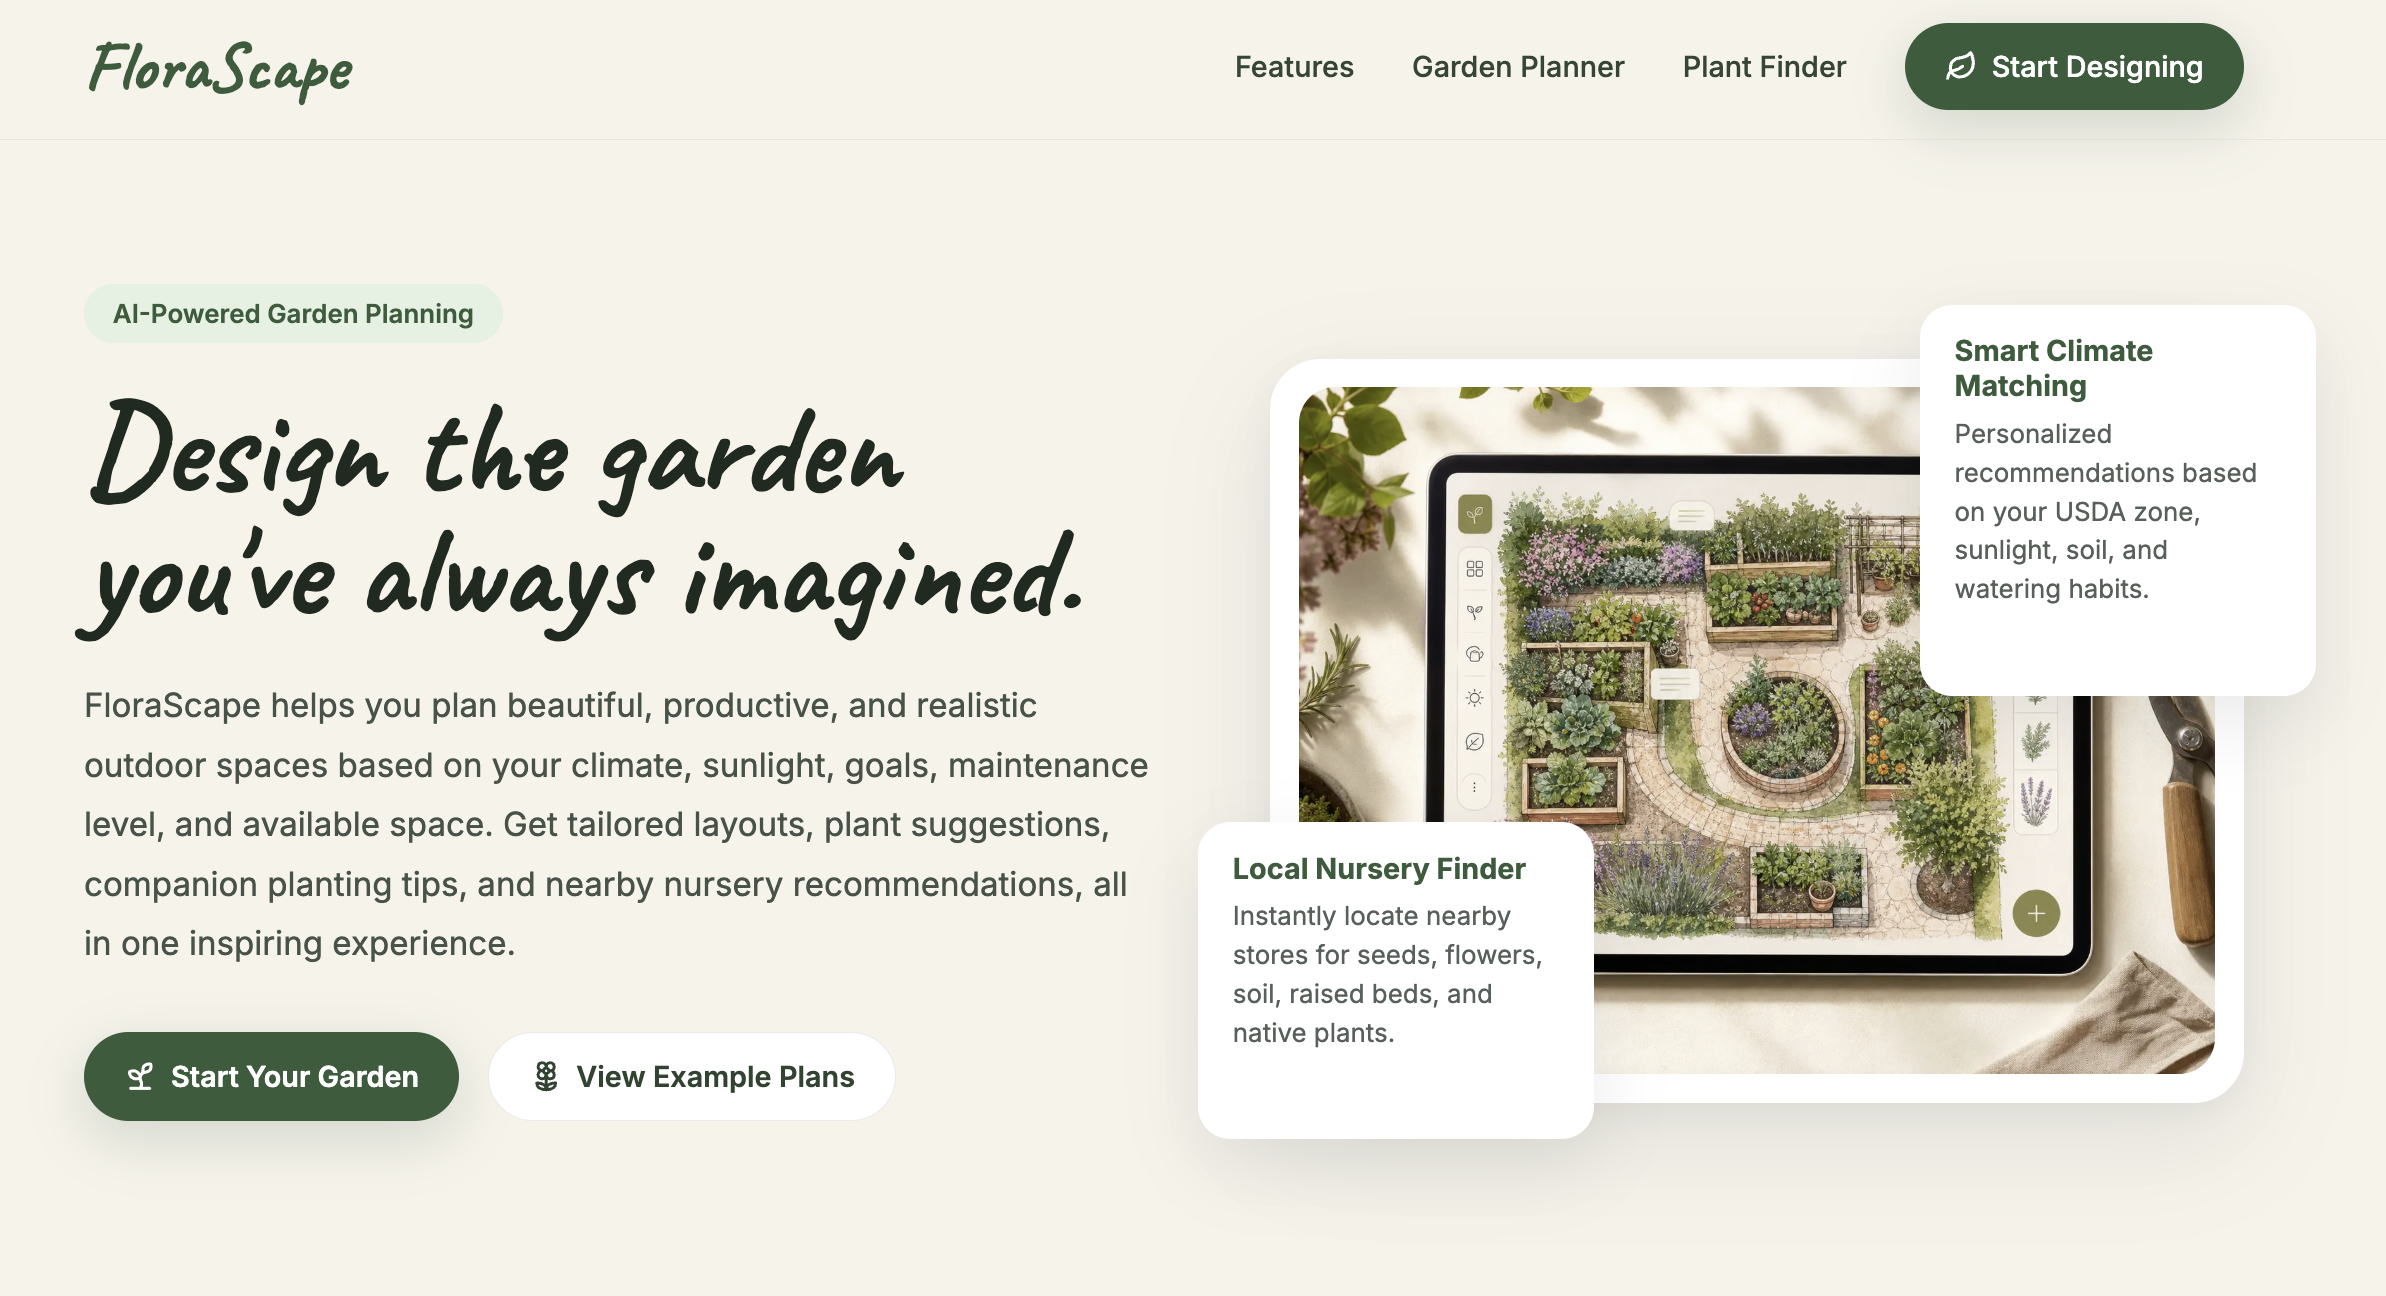
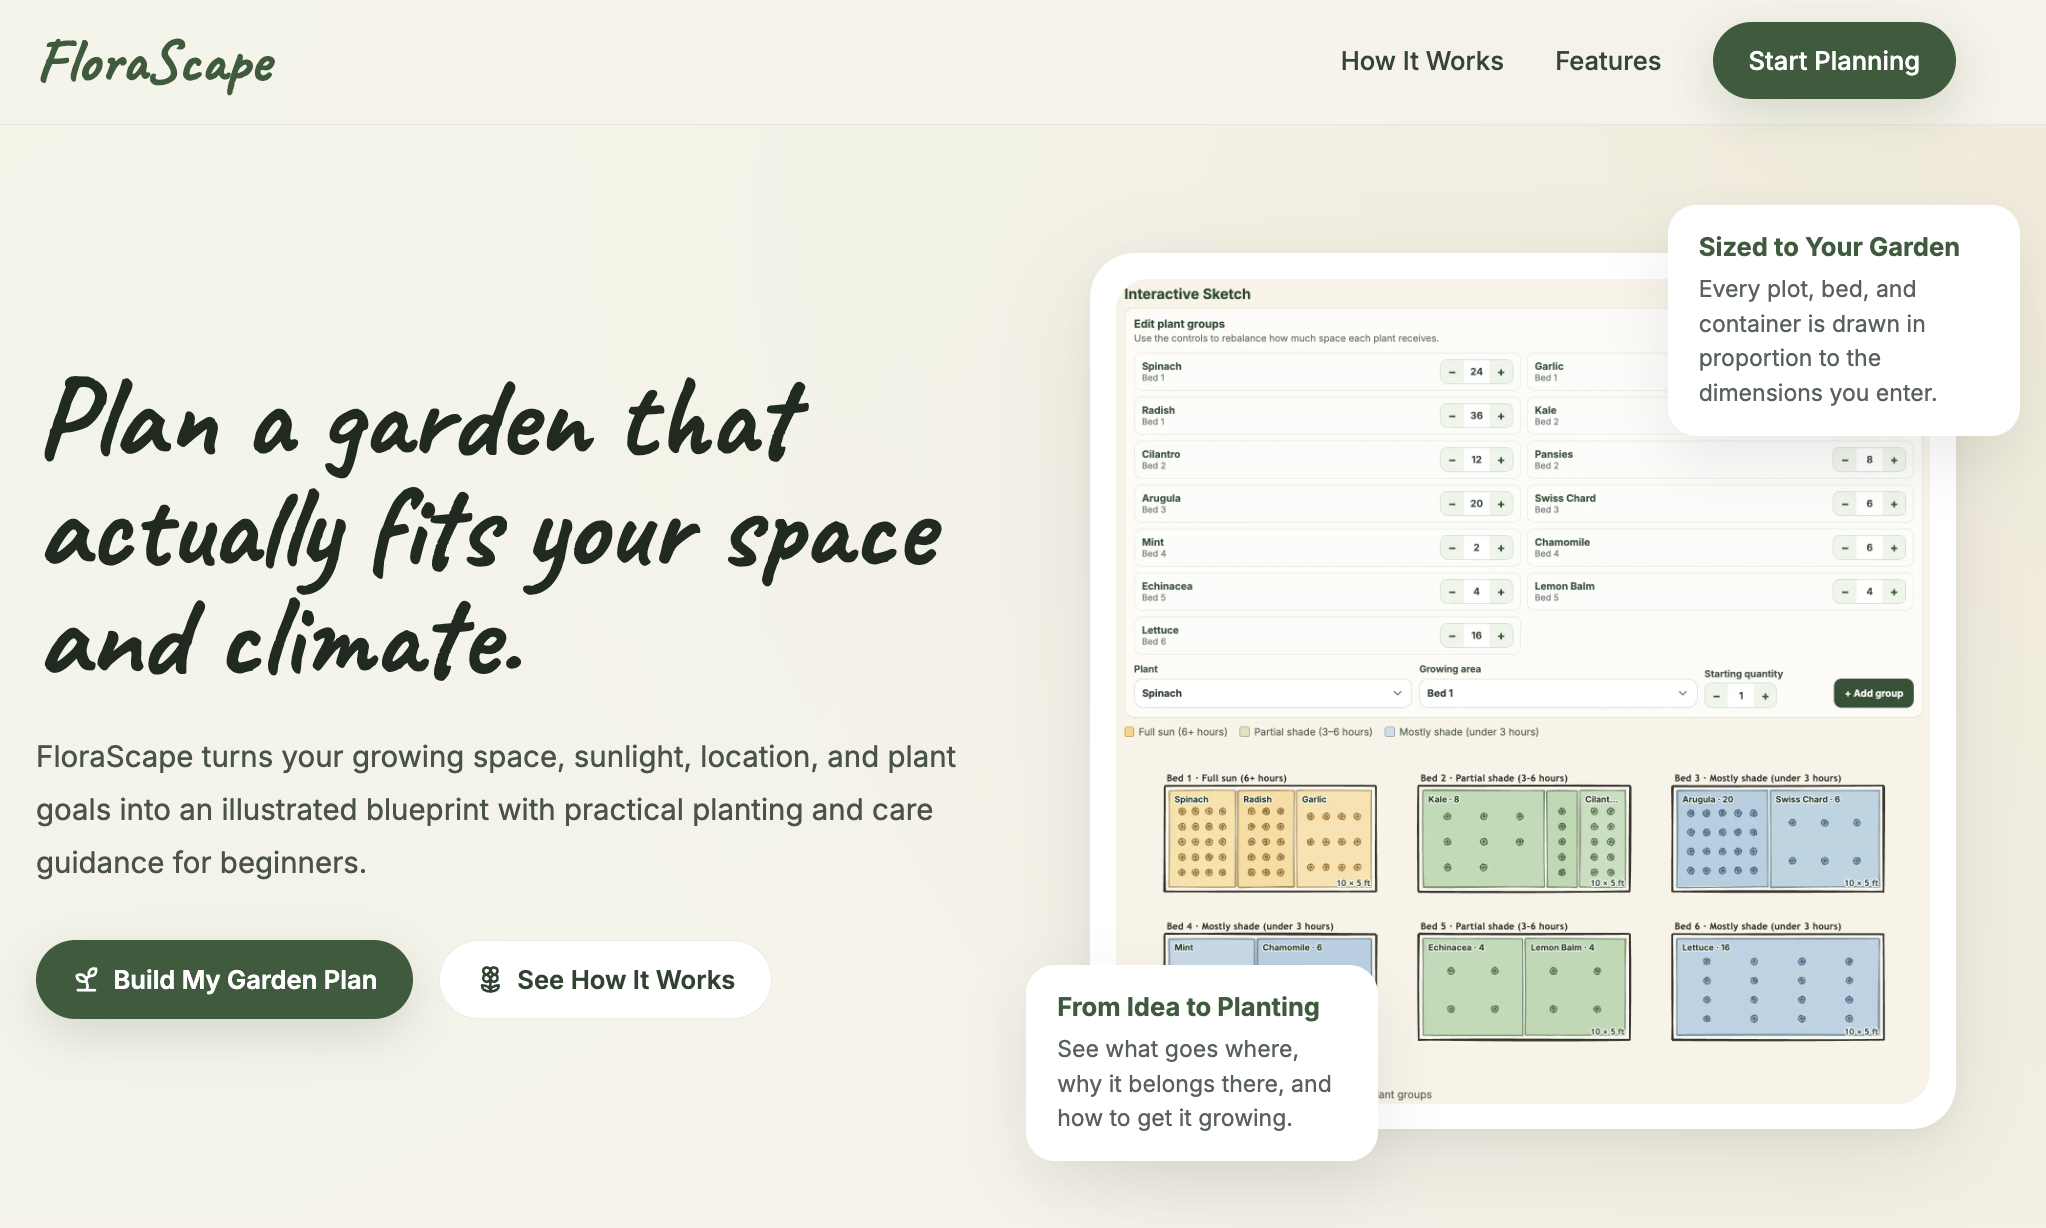
updates

diff --git a/app/data/githubContributions2026.ts b/app/data/githubContributions2026.ts
@@ -1,94 +1,102 @@
 export const contributions2026 = [
-  { date: '2026-01-02', level: 1, count: 2 },
-  { date: '2026-01-05', level: 1, count: 2 },
-  { date: '2026-01-06', level: 2, count: 8 },
-  { date: '2026-01-07', level: 2, count: 6 },
-  { date: '2026-01-08', level: 2, count: 6 },
+  { date: '2026-01-05', level: 1, count: 1 },
+  { date: '2026-01-06', level: 2, count: 5 },
+  { date: '2026-01-07', level: 2, count: 3 },
+  { date: '2026-01-08', level: 2, count: 3 },
   { date: '2026-01-09', level: 1, count: 1 },
-  { date: '2026-01-12', level: 1, count: 3 },
-  { date: '2026-01-13', level: 2, count: 11 },
-  { date: '2026-01-14', level: 2, count: 8 },
-  { date: '2026-01-15', level: 1, count: 4 },
+  { date: '2026-01-12', level: 2, count: 3 },
+  { date: '2026-01-13', level: 2, count: 4 },
+  { date: '2026-01-14', level: 2, count: 4 },
+  { date: '2026-01-15', level: 2, count: 3 },
   { date: '2026-01-19', level: 1, count: 2 },
-  { date: '2026-01-20', level: 2, count: 9 },
-  { date: '2026-01-21', level: 2, count: 10 },
-  { date: '2026-01-22', level: 2, count: 10 },
-  { date: '2026-01-23', level: 2, count: 7 },
-  { date: '2026-01-26', level: 2, count: 7 },
-  { date: '2026-01-27', level: 1, count: 5 },
-  { date: '2026-01-28', level: 3, count: 15 },
-  { date: '2026-01-29', level: 2, count: 9 },
-  { date: '2026-01-30', level: 2, count: 7 },
+  { date: '2026-01-20', level: 1, count: 2 },
+  { date: '2026-01-21', level: 4, count: 10 },
+  { date: '2026-01-22', level: 3, count: 7 },
+  { date: '2026-01-23', level: 3, count: 7 },
+  { date: '2026-01-26', level: 2, count: 5 },
+  { date: '2026-01-27', level: 2, count: 3 },
+  { date: '2026-01-28', level: 4, count: 9 },
+  { date: '2026-01-29', level: 1, count: 2 },
+  { date: '2026-01-30', level: 2, count: 5 },
   { date: '2026-02-01', level: 1, count: 2 },
-  { date: '2026-02-02', level: 1, count: 3 },
-  { date: '2026-02-03', level: 1, count: 4 },
-  { date: '2026-02-04', level: 1, count: 3 },
-  { date: '2026-02-05', level: 2, count: 7 },
-  { date: '2026-02-06', level: 2, count: 9 },
-  { date: '2026-02-09', level: 2, count: 10 },
-  { date: '2026-02-10', level: 4, count: 31 },
-  { date: '2026-02-11', level: 3, count: 12 },
-  { date: '2026-02-17', level: 2, count: 11 },
-  { date: '2026-02-18', level: 2, count: 10 },
-  { date: '2026-02-20', level: 2, count: 10 },
-  { date: '2026-02-23', level: 3, count: 13 },
-  { date: '2026-02-24', level: 3, count: 12 },
-  { date: '2026-02-25', level: 2, count: 11 },
-  { date: '2026-02-26', level: 2, count: 9 },
-  { date: '2026-02-27', level: 4, count: 22 },
-  { date: '2026-03-02', level: 1, count: 3 },
-  { date: '2026-03-03', level: 1, count: 5 },
-  { date: '2026-03-04', level: 2, count: 8 },
-  { date: '2026-03-05', level: 4, count: 22 },
-  { date: '2026-03-06', level: 1, count: 5 },
-  { date: '2026-03-09', level: 4, count: 20 },
-  { date: '2026-03-10', level: 1, count: 5 },
-  { date: '2026-03-11', level: 1, count: 3 },
+  { date: '2026-02-02', level: 1, count: 2 },
+  { date: '2026-02-03', level: 2, count: 3 },
+  { date: '2026-02-04', level: 1, count: 2 },
+  { date: '2026-02-05', level: 2, count: 3 },
+  { date: '2026-02-06', level: 3, count: 6 },
+  { date: '2026-02-09', level: 2, count: 5 },
+  { date: '2026-02-10', level: 4, count: 13 },
+  { date: '2026-02-11', level: 1, count: 2 },
+  { date: '2026-02-17', level: 4, count: 10 },
+  { date: '2026-02-18', level: 2, count: 5 },
+  { date: '2026-02-20', level: 4, count: 9 },
+  { date: '2026-02-23', level: 2, count: 5 },
+  { date: '2026-02-24', level: 3, count: 7 },
+  { date: '2026-02-25', level: 3, count: 6 },
+  { date: '2026-02-26', level: 2, count: 4 },
+  { date: '2026-02-27', level: 4, count: 14 },
+  { date: '2026-03-02', level: 2, count: 3 },
+  { date: '2026-03-03', level: 2, count: 4 },
+  { date: '2026-03-04', level: 3, count: 7 },
+  { date: '2026-03-05', level: 4, count: 14 },
+  { date: '2026-03-06', level: 2, count: 4 },
+  { date: '2026-03-09', level: 4, count: 18 },
+  { date: '2026-03-10', level: 2, count: 5 },
+  { date: '2026-03-11', level: 2, count: 3 },
   { date: '2026-03-12', level: 1, count: 1 },
-  { date: '2026-03-13', level: 1, count: 3 },
-  { date: '2026-03-16', level: 1, count: 3 },
-  { date: '2026-03-17', level: 2, count: 8 },
-  { date: '2026-03-18', level: 2, count: 6 },
-  { date: '2026-03-19', level: 2, count: 10 },
+  { date: '2026-03-13', level: 1, count: 2 },
+  { date: '2026-03-16', level: 1, count: 2 },
+  { date: '2026-03-17', level: 2, count: 3 },
+  { date: '2026-03-18', level: 1, count: 2 },
+  { date: '2026-03-19', level: 2, count: 4 },
   { date: '2026-03-20', level: 1, count: 1 },
-  { date: '2026-03-23', level: 1, count: 5 },
-  { date: '2026-03-24', level: 2, count: 11 },
-  { date: '2026-03-25', level: 1, count: 5 },
-  { date: '2026-03-26', level: 3, count: 15 },
+  { date: '2026-03-23', level: 1, count: 2 },
+  { date: '2026-03-24', level: 3, count: 6 },
+  { date: '2026-03-25', level: 2, count: 3 },
+  { date: '2026-03-26', level: 1, count: 2 },
   { date: '2026-03-27', level: 1, count: 1 },
   { date: '2026-03-30', level: 1, count: 2 },
   { date: '2026-03-31', level: 1, count: 1 },
   { date: '2026-04-01', level: 1, count: 2 },
   { date: '2026-04-02', level: 1, count: 1 },
-  { date: '2026-04-06', level: 2, count: 7 },
-  { date: '2026-04-07', level: 2, count: 6 },
-  { date: '2026-04-08', level: 2, count: 8 },
+  { date: '2026-04-06', level: 2, count: 5 },
+  { date: '2026-04-07', level: 1, count: 2 },
+  { date: '2026-04-08', level: 2, count: 4 },
   { date: '2026-04-09', level: 1, count: 2 },
-  { date: '2026-04-13', level: 2, count: 9 },
-  { date: '2026-04-14', level: 1, count: 5 },
-  { date: '2026-04-16', level: 1, count: 1 },
-  { date: '2026-04-27', level: 3, count: 14 },
-  { date: '2026-04-28', level: 3, count: 14 },
-  { date: '2026-04-29', level: 1, count: 4 },
-  { date: '2026-04-30', level: 1, count: 4 },
-  { date: '2026-05-01', level: 1, count: 5 },
-  { date: '2026-05-04', level: 1, count: 4 },
-  { date: '2026-05-05', level: 4, count: 18 },
-  { date: '2026-05-07', level: 2, count: 6 },
-  { date: '2026-05-08', level: 2, count: 6 },
-  { date: '2026-05-11', level: 2, count: 6 },
+  { date: '2026-04-13', level: 2, count: 3 },
+  { date: '2026-04-14', level: 2, count: 3 },
+  { date: '2026-04-17', level: 1, count: 1 },
+  { date: '2026-04-27', level: 2, count: 4 },
+  { date: '2026-04-28', level: 1, count: 2 },
+  { date: '2026-04-29', level: 1, count: 1 },
+  { date: '2026-04-30', level: 1, count: 2 },
+  { date: '2026-05-01', level: 2, count: 3 },
+  { date: '2026-05-04', level: 2, count: 3 },
+  { date: '2026-05-05', level: 4, count: 8 },
+  { date: '2026-05-07', level: 2, count: 4 },
+  { date: '2026-05-08', level: 1, count: 2 },
+  { date: '2026-05-11', level: 1, count: 1 },
   { date: '2026-05-12', level: 1, count: 1 },
   { date: '2026-05-13', level: 1, count: 2 },
-  { date: '2026-05-14', level: 1, count: 4 },
+  { date: '2026-05-14', level: 1, count: 1 },
   { date: '2026-05-21', level: 1, count: 1 },
-  { date: '2026-05-22', level: 1, count: 3 },
-  { date: '2026-05-25', level: 1, count: 5 },
-  { date: '2026-05-26', level: 1, count: 1 },
-  { date: '2026-05-27', level: 2, count: 6 },
+  { date: '2026-05-22', level: 2, count: 3 },
+  { date: '2026-05-25', level: 2, count: 5 },
+  { date: '2026-05-26', level: 2, count: 3 },
+  { date: '2026-05-27', level: 3, count: 6 },
   { date: '2026-05-29', level: 1, count: 1 },
   { date: '2026-05-30', level: 1, count: 2 },
-  { date: '2026-06-01', level: 1, count: 1 },
-  { date: '2026-06-25', level: 2, count: 6 },
+  { date: '2026-06-01', level: 1, count: 2 },
+  { date: '2026-06-25', level: 3, count: 6 },
+  { date: '2026-08-11', level: 3, count: 7 },
+  { date: '2026-08-12', level: 4, count: 9 },
+  { date: '2026-08-13', level: 1, count: 2 },
+  { date: '2026-08-18', level: 2, count: 4 },
+  { date: '2026-08-19', level: 2, count: 5 },
+  { date: '2026-08-21', level: 4, count: 9 },
+  { date: '2026-08-23', level: 4, count: 10 },
+  { date: '2026-08-24', level: 4, count: 10 },
+  { date: '2026-08-25', level: 4, count: 9 },
 ];
 
-export const totalContributions2026 = 609;
+export const totalContributions2026 = 418;

diff --git a/app/data/githubContributions2025.ts b/app/data/githubContributions2025.ts
@@ -132,74 +132,71 @@ export const contributions2025 = [
   { date: '2025-08-20', level: 3, count: 12 },
   { date: '2025-08-21', level: 2, count: 9 },
   { date: '2025-08-22', level: 2, count: 8 },
-  { date: '2025-08-25', level: 4, count: 18 },
-  { date: '2025-08-26', level: 3, count: 12 },
-  { date: '2025-08-27', level: 2, count: 9 },
-  { date: '2025-08-28', level: 2, count: 6 },
-  { date: '2025-09-02', level: 1, count: 4 },
+  { date: '2025-08-25', level: 2, count: 5 },
+  { date: '2025-08-26', level: 2, count: 5 },
+  { date: '2025-08-27', level: 2, count: 3 },
+  { date: '2025-08-28', level: 1, count: 2 },
+  { date: '2025-09-02', level: 1, count: 1 },
   { date: '2025-09-03', level: 1, count: 1 },
-  { date: '2025-09-04', level: 3, count: 11 },
-  { date: '2025-09-08', level: 1, count: 3 },
+  { date: '2025-09-04', level: 2, count: 5 },
+  { date: '2025-09-08', level: 2, count: 3 },
   { date: '2025-09-09', level: 1, count: 1 },
-  { date: '2025-09-11', level: 1, count: 4 },
-  { date: '2025-09-16', level: 3, count: 12 },
-  { date: '2025-09-17', level: 2, count: 6 },
-  { date: '2025-09-18', level: 1, count: 4 },
-  { date: '2025-09-19', level: 2, count: 8 },
-  { date: '2025-09-22', level: 2, count: 7 },
-  { date: '2025-09-23', level: 1, count: 4 },
-  { date: '2025-09-24', level: 2, count: 8 },
-  { date: '2025-09-25', level: 3, count: 11 },
-  { date: '2025-09-26', level: 1, count: 4 },
-  { date: '2025-09-29', level: 3, count: 11 },
-  { date: '2025-09-30', level: 2, count: 5 },
-  { date: '2025-10-01', level: 3, count: 12 },
-  { date: '2025-10-02', level: 1, count: 1 },
-  { date: '2025-10-06', level: 1, count: 4 },
-  { date: '2025-10-10', level: 1, count: 1 },
+  { date: '2025-09-11', level: 1, count: 2 },
+  { date: '2025-09-16', level: 4, count: 8 },
+  { date: '2025-09-17', level: 1, count: 2 },
+  { date: '2025-09-18', level: 1, count: 1 },
+  { date: '2025-09-19', level: 2, count: 3 },
+  { date: '2025-09-22', level: 1, count: 1 },
+  { date: '2025-09-23', level: 1, count: 1 },
+  { date: '2025-09-24', level: 2, count: 3 },
+  { date: '2025-09-25', level: 2, count: 4 },
+  { date: '2025-09-26', level: 1, count: 1 },
+  { date: '2025-09-29', level: 2, count: 3 },
+  { date: '2025-09-30', level: 2, count: 3 },
+  { date: '2025-10-01', level: 2, count: 4 },
+  { date: '2025-10-06', level: 2, count: 4 },
   { date: '2025-10-13', level: 2, count: 5 },
-  { date: '2025-10-14', level: 2, count: 5 },
-  { date: '2025-10-15', level: 1, count: 4 },
-  { date: '2025-10-16', level: 1, count: 4 },
-  { date: '2025-10-17', level: 1, count: 4 },
-  { date: '2025-10-20', level: 1, count: 1 },
-  { date: '2025-10-21', level: 1, count: 4 },
-  { date: '2025-10-22', level: 2, count: 5 },
+  { date: '2025-10-14', level: 2, count: 3 },
+  { date: '2025-10-15', level: 2, count: 4 },
+  { date: '2025-10-16', level: 2, count: 4 },
+  { date: '2025-10-17', level: 2, count: 4 },
+  { date: '2025-10-21', level: 1, count: 1 },
+  { date: '2025-10-22', level: 2, count: 3 },
   { date: '2025-10-27', level: 2, count: 5 },
-  { date: '2025-10-28', level: 1, count: 4 },
-  { date: '2025-10-29', level: 1, count: 4 },
-  { date: '2025-10-30', level: 3, count: 10 },
-  { date: '2025-10-31', level: 1, count: 3 },
-  { date: '2025-11-03', level: 1, count: 3 },
-  { date: '2025-11-04', level: 2, count: 6 },
-  { date: '2025-11-05', level: 1, count: 2 },
-  { date: '2025-11-07', level: 2, count: 8 },
-  { date: '2025-11-10', level: 1, count: 3 },
-  { date: '2025-11-11', level: 1, count: 2 },
-  { date: '2025-11-12', level: 1, count: 2 },
-  { date: '2025-11-13', level: 2, count: 5 },
-  { date: '2025-11-14', level: 1, count: 4 },
-  { date: '2025-11-17', level: 1, count: 4 },
-  { date: '2025-11-18', level: 1, count: 3 },
-  { date: '2025-11-19', level: 2, count: 6 },
-  { date: '2025-11-24', level: 3, count: 10 },
-  { date: '2025-11-25', level: 2, count: 8 },
+  { date: '2025-10-28', level: 1, count: 2 },
+  { date: '2025-10-29', level: 2, count: 3 },
+  { date: '2025-10-30', level: 1, count: 1 },
+  { date: '2025-10-31', level: 1, count: 1 },
+  { date: '2025-11-03', level: 1, count: 1 },
+  { date: '2025-11-04', level: 1, count: 2 },
+  { date: '2025-11-05', level: 1, count: 1 },
+  { date: '2025-11-06', level: 1, count: 1 },
+  { date: '2025-11-07', level: 2, count: 4 },
+  { date: '2025-11-10', level: 1, count: 1 },
+  { date: '2025-11-11', level: 1, count: 1 },
+  { date: '2025-11-12', level: 1, count: 1 },
+  { date: '2025-11-13', level: 2, count: 4 },
+  { date: '2025-11-14', level: 1, count: 2 },
+  { date: '2025-11-17', level: 2, count: 3 },
+  { date: '2025-11-18', level: 1, count: 2 },
+  { date: '2025-11-19', level: 1, count: 1 },
+  { date: '2025-11-24', level: 1, count: 2 },
+  { date: '2025-11-25', level: 1, count: 2 },
+  { date: '2025-11-26', level: 1, count: 1 },
   { date: '2025-12-02', level: 1, count: 1 },
-  { date: '2025-12-03', level: 2, count: 5 },
-  { date: '2025-12-04', level: 2, count: 8 },
-  { date: '2025-12-05', level: 1, count: 1 },
-  { date: '2025-12-08', level: 1, count: 3 },
-  { date: '2025-12-09', level: 3, count: 12 },
-  { date: '2025-12-10', level: 2, count: 8 },
-  { date: '2025-12-11', level: 1, count: 4 },
-  { date: '2025-12-12', level: 2, count: 7 },
-  { date: '2025-12-15', level: 1, count: 3 },
-  { date: '2025-12-17', level: 1, count: 3 },
-  { date: '2025-12-18', level: 3, count: 13 },
-  { date: '2025-12-19', level: 1, count: 4 },
+  { date: '2025-12-03', level: 2, count: 3 },
+  { date: '2025-12-04', level: 3, count: 6 },
+  { date: '2025-12-08', level: 1, count: 1 },
+  { date: '2025-12-09', level: 1, count: 1 },
+  { date: '2025-12-10', level: 1, count: 2 },
+  { date: '2025-12-11', level: 1, count: 1 },
+  { date: '2025-12-12', level: 2, count: 3 },
+  { date: '2025-12-15', level: 1, count: 1 },
+  { date: '2025-12-18', level: 2, count: 3 },
+  { date: '2025-12-19', level: 1, count: 2 },
   { date: '2025-12-22', level: 1, count: 1 },
-  { date: '2025-12-23', level: 1, count: 2 },
-  { date: '2025-12-24', level: 1, count: 3 },
+  { date: '2025-12-23', level: 1, count: 1 },
+  { date: '2025-12-24', level: 1, count: 2 },
 ];
 
-export const totalContributions2025 = 1293;
+export const totalContributions2025 = 1068;
